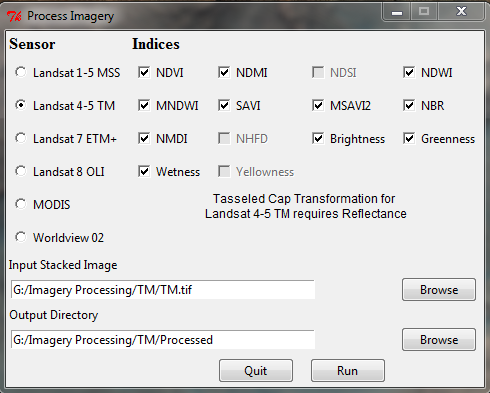
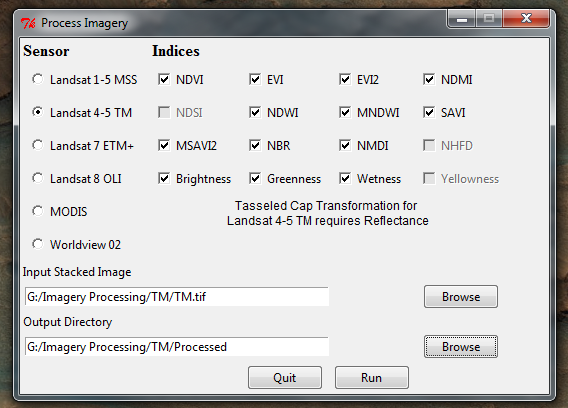
Image Change

diff --git a/RS_Indices_Derivation.py b/RS_Indices_Derivation.py
@@ -310,7 +310,7 @@ if Sensor == "Landsat 4-5 TM" or Sensor == "Landsat 7 ETM+" or Sensor == "Landsa
     SWIR1 = Raster(outPath + "/"  + inRaster[:-4] + "_B" + SWIR1Band + ".tif")
     SWIR2 = Raster(outPath + "/"  + inRaster[:-4] + "_B" + SWIR2Band + ".tif")
 
-#if Sensor == "Landsat 1-5 MSS":
+# Set indice equations compatible with all sensors
 indicesForm = {
     'NDVI':(NIR1 - Red)/(NIR1 + Red),
     'EVI':2.5*((NIR1 - Red)/(NIR1 + 6 * Red - 7.5 * Blue + 1)),
@@ -320,23 +320,12 @@ indicesForm = {
     'MSAVI2':(2 * NIR1 + 1 - SquareRoot((2 * NIR1 + 1)**2 - 8 * (NIR1-Red)))/2,
     }
 
-## Select which possible indices to calculate based on sensor
+## Add sensor specific indices
 if Sensor == "Landsat 4-5 TM" or Sensor == "Landsat 7 ETM+" or Sensor == "Landsat 8 OLI" or Sensor == "MODIS":
     indicesForm['NDMI'] = (NIR1 - SWIR1)/(NIR1 + SWIR1)
     indicesForm['MNDWI'] = (Green - SWIR1)/(Green + SWIR1)
     indicesForm['NBR'] = (NIR1 - SWIR1)/(NIR1 - SWIR1)
     indicesForm['NMDI'] = (NIR1 - (SWIR1 - SWIR2))/(NIR1 + (SWIR1 - SWIR2))
-
-#if Sensor == "Worldview 02":
-#    indicesForm = {
-#        'NDVI':(NIR1 - Red)/(NIR1 + Red),
-#        'EVI':2.5*((NIR1 - Red)/(NIR1 + 6 * Red - 7.5 * Blue + 1)),
-#        'EVI2':2.4*((NIR1 - Red)/(NIR1 + Red + 1)),
-#
-#        'NDWI':(Green - NIR1)/(Green + NIR1),
-#        'SAVI':((NIR1 - Red)/(NIR1 + Red + 0.5)) * (1 + 0.5),
-#        'MSAVI2':(2 * NIR1 + 1 - SquareRoot((2 * NIR1 + 1)**2 - 8 * (NIR1 - Red)))/2,
-#        }
 
 ## Add Tasseled Cap Transformation with sensor specific coefficients
 if Sensor == "Landsat 1-5 MSS": 
